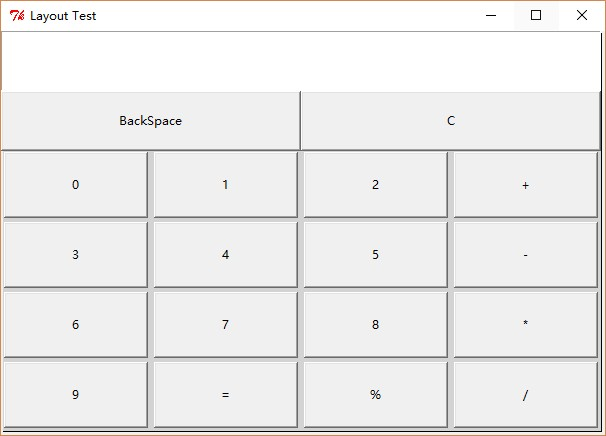
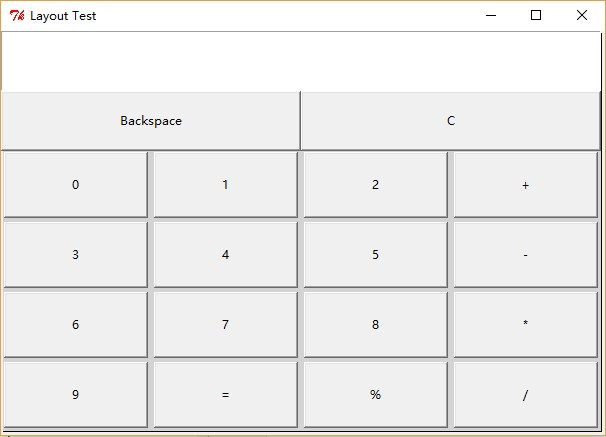
DDD/DSL Layout Python Backspace globalparam

diff --git a/DDD DSL/DDD DSL Design War Layout/Code/Python/globalparam/oo/layout_test.py b/DDD DSL/DDD DSL Design War Layout/Code/Python/globalparam/oo/layout_test.py
@@ -62,7 +62,7 @@ class LayoutTest(object):
         btns = [button(text) for text in texts]
 
         above(above(entry(),
-                    beside(button('BackSpace'), button('C'), 0.5), 0.5),
+                    beside(button('Backspace'), button('C'), 0.5), 0.5),
               block(btns, 4, 4), 0.3).AT(0, 0, 600, 400).IN(self.container)
 
     def test_minicalc_margin(self):
@@ -73,18 +73,18 @@ class LayoutTest(object):
         btns = [button(text) for text in texts]
 
         above(above(entry(),
-                    beside(button('BackSpace'), button('C'), 0.5), 0.5),
+                    beside(button('Backspace'), button('C'), 0.5), 0.5),
               blockm(btns, 4, 4, 0.02, 0.02), 0.3).AT(0, 0, 600, 400).IN(self.container)
 
     def test_globalparam(self):
-        param1 = center(beside(LabelCmp('Parameter 1'), beside(empty(), EntryCmp(), 0.1), 0.3), 0.05, 0.3)
-        param2 = center(beside(LabelCmp('Parameter 2'), beside(empty(), EntryCmp(), 0.1), 0.3), 0.05, 0.3)
-        param3 = center(beside(LabelCmp('Parameter 3'), beside(empty(), EntryCmp(), 0.1), 0.3), 0.05, 0.3)
-        params = vseq([param1, param2, param3])
-
+        params = vseq([self._param('Parameter 1', entry()),
+                       self._param('Parameter 2', entry()),
+                       self._param('Parameter 3', entry())])
         btns = beside(empty(), center(beside(button('Set'), beside(empty(), button('Close'), 0.1), 0.5), 0.06, 0.2), 0.2)
-
         above(params, btns, 0.8).AT(0, 0, 600, 400).IN(self.container)
+
+    def _param(self, labeltext, cmp):
+        return center(beside(LabelCmp(labeltext), beside(empty(), cmp, 0.1), 0.3), 0.05, 0.3)
 
     def tests(self):
         # Invoking test cases here

diff --git a/DDD DSL/DDD DSL Design War Layout/Code/Python/globalparam/functional/layout_test.py b/DDD DSL/DDD DSL Design War Layout/Code/Python/globalparam/functional/layout_test.py
@@ -49,7 +49,7 @@ def test_minicalc(container):
     btns = [button(text) for text in texts]
 
     above(above(entry(),
-                beside(button('BackSpace'), button('C'), 0.5), 0.5),
+                beside(button('Backspace'), button('C'), 0.5), 0.5),
           block(btns, 4, 4), 0.3)(rectangle(0, 0, 600, 400))(container)
 
 def test_minicalc_margin(container):
@@ -60,18 +60,18 @@ def test_minicalc_margin(container):
     btns = [button(text) for text in texts]
 
     above(above(entry(),
-                beside(button('BackSpace'), button('C'), 0.5), 0.5),
+                beside(button('Backspace'), button('C'), 0.5), 0.5),
           blockm(btns, 4, 4, 0.02, 0.02), 0.3)(rectangle(0, 0, 600, 400))(container)
 
 def test_globalparam(container):
-    param1 = center(beside(label('Parameter 1'), beside(empty(), entry(), 0.1), 0.3), 0.05, 0.3)
-    param2 = center(beside(label('Parameter 2'), beside(empty(), entry(), 0.1), 0.3), 0.05, 0.3)
-    param3 = center(beside(label('Parameter 3'), beside(empty(), entry(), 0.1), 0.3), 0.05, 0.3)
-    params = vseq([param1, param2, param3])
-
+    params = vseq([_param('Parameter 1', entry()),
+                   _param('Parameter 2', entry()),
+                   _param('Parameter 3', entry())])
     btns = beside(empty(), center(beside(button('Set'), beside(empty(), button('Close'), 0.1), 0.5), 0.06, 0.2), 0.2)
-
     above(params, btns, 0.8)(rectangle(0, 0, 600, 400))(container)
+
+def _param(labeltext, cmp):
+    return center(beside(label(labeltext), beside(empty(), cmp, 0.1), 0.3), 0.05, 0.3)
 
 def tests(container):
     # Invoking test cases here

diff --git a/DDD DSL/DDD DSL Design War Layout/Code/Python/original/oo/layout_test.py b/DDD DSL/DDD DSL Design War Layout/Code/Python/original/oo/layout_test.py
@@ -62,7 +62,7 @@ class LayoutTest(object):
         btns = [button(text) for text in texts]
 
         above(above(entry(),
-                    beside(button('BackSpace'), button('C'), 0.5), 0.5),
+                    beside(button('Backspace'), button('C'), 0.5), 0.5),
               block(btns, 4, 4), 0.3).AT(0, 0, 600, 400).IN(self.container)
 
     def test_minicalc_margin(self):
@@ -73,7 +73,7 @@ class LayoutTest(object):
         btns = [button(text) for text in texts]
 
         above(above(entry(),
-                    beside(button('BackSpace'), button('C'), 0.5), 0.5),
+                    beside(button('Backspace'), button('C'), 0.5), 0.5),
               blockm(btns, 4, 4, 0.02, 0.02), 0.3).AT(0, 0, 600, 400).IN(self.container)
 
     def tests(self):

diff --git a/DDD DSL/DDD DSL Design War Layout/Code/Python/original/functional/layout_test.py b/DDD DSL/DDD DSL Design War Layout/Code/Python/original/functional/layout_test.py
@@ -49,7 +49,7 @@ def test_minicalc(container):
     btns = [button(text) for text in texts]
 
     above(above(entry(),
-                beside(button('BackSpace'), button('C'), 0.5), 0.5),
+                beside(button('Backspace'), button('C'), 0.5), 0.5),
           block(btns, 4, 4), 0.3)(rectangle(0, 0, 600, 400))(container)
 
 def test_minicalc_margin(container):
@@ -60,7 +60,7 @@ def test_minicalc_margin(container):
     btns = [button(text) for text in texts]
 
     above(above(entry(),
-                beside(button('BackSpace'), button('C'), 0.5), 0.5),
+                beside(button('Backspace'), button('C'), 0.5), 0.5),
           blockm(btns, 4, 4, 0.02, 0.02), 0.3)(rectangle(0, 0, 600, 400))(container)
 
 def tests(container):
